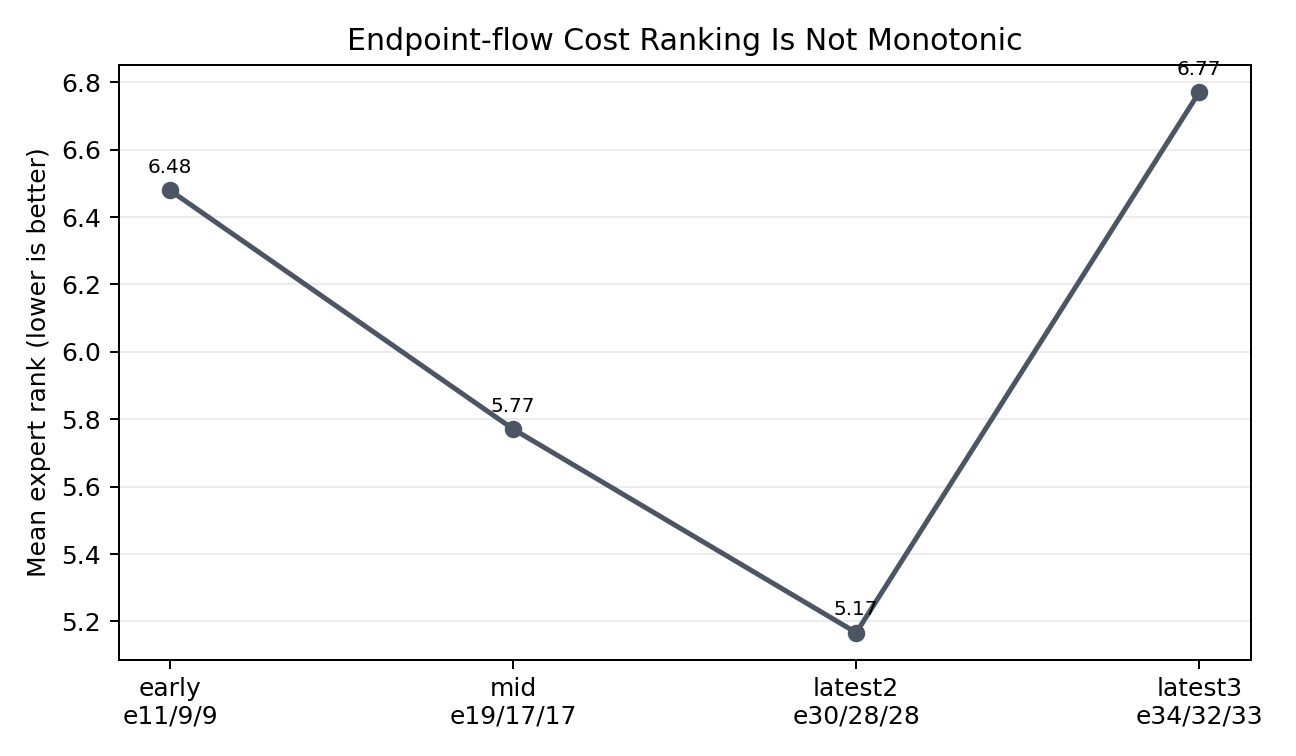
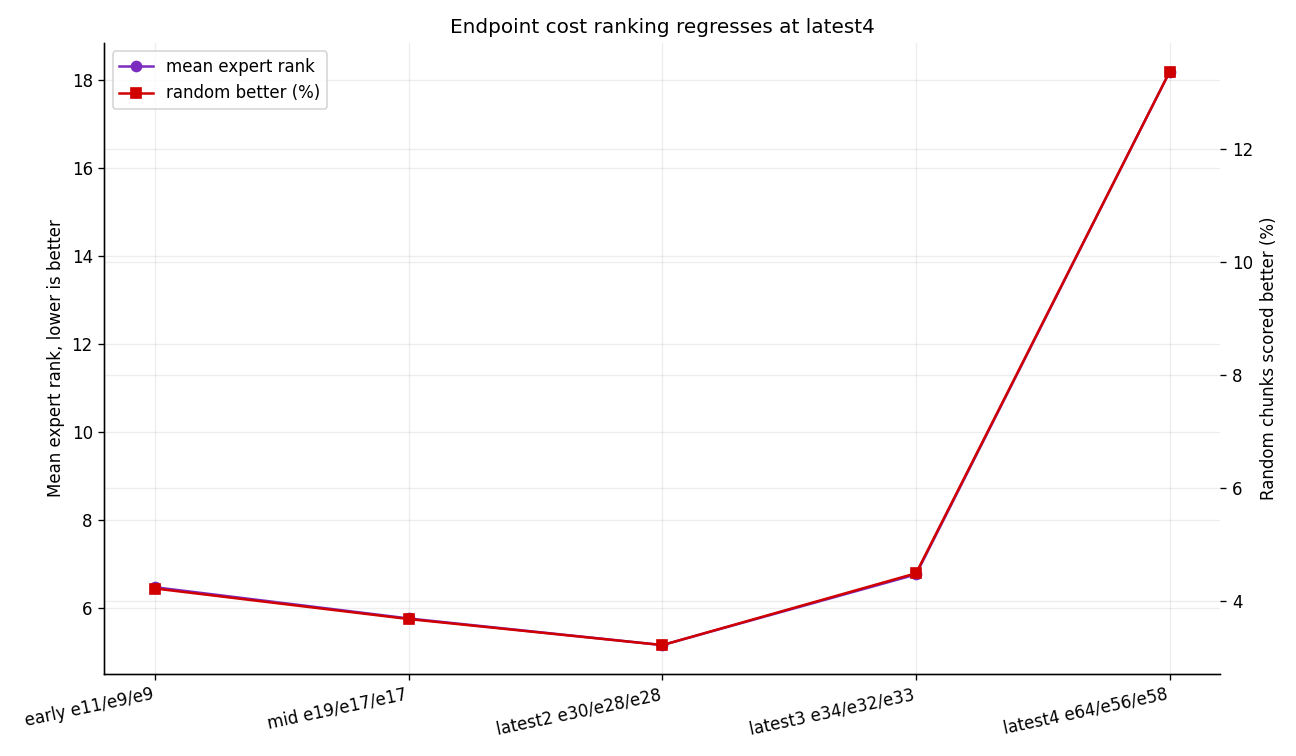
Update LeWM flow progress report metrics

diff --git a/docs/lewm_flow_progress_report_20260610.md b/docs/lewm_flow_progress_report_20260610.md
@@ -1,6 +1,6 @@
 # LeWM Flow-WM Progress Report
 
-Generated: 2026-06-11 EDT
+Generated: 2026-06-13 EDT
 
 Sources:
 
@@ -16,30 +16,29 @@ We are testing whether flow can improve LeWM by replacing the learned world-mode
 **Current answer: direct flow-WM replacement is not promising under the original LeWM/CEM interface.**
 
 - Native LeWM + CEM remains the anchor: `87.3 +/- 1.2%` full50 success at `1.31s/episode`.
-- Residual flow-WM is a clear failure mode: low flow loss (`0.0612`) but bad deterministic prediction (`1.2075`) and `0%` medium10 success.
-- Endpoint flow-WM repairs one-step prediction (`0.0083 -> 0.0055 -> 0.0053`) but not control (`30.0% -> 23.3% -> 20.0%`).
-- Runtime moves the same direction as performance moves against us: endpoint flow-WM is `~5.7x` slower than native selected CEM (`7.42s` vs `1.31s/episode`) while much less successful.
+- Residual flow-WM is now formally closed: epoch-100 full50 is only `2.0%` mean success, with `validate/pred_loss_epoch ~= 1.25` and `7.97s/episode`.
+- Endpoint flow-WM keeps improving one-step prediction (`0.0083 -> 0.0053 -> 0.0037`), but latest4 control collapses to `0%` medium10 while planner cost ranking gets worse (`mean expert rank 6.77 -> 18.19`).
+- Selected-native action-flow is fast (`0.37s/episode`) and fairer than the old epoch-100-confounded action-flow run, but still reaches only `54.7%` full50, far below native CEM.
 
 **Main insight:** the bottleneck is likely not model capacity or insufficient training time. The signal points to an interface mismatch: flow objectives can improve distributional or endpoint prediction, but CEM needs a deterministic, multi-step, action-conditional cost surface that ranks candidate action sequences correctly under closed-loop rollouts.
 
-**Research decision from current evidence:** do not keep scaling the same endpoint-flow WM as the main path. The next useful experiments should change the training signal or planner interface: planner-aware cost ranking/margin losses, multi-step rollout consistency on CEM-like action chunks, or uncertainty-aware CEM if we actually use flow samples during planning. A separate action-flow proposal is still worth testing because it can use flow where sampling is naturally useful while keeping the reliable native WM.
+**Research decision from current evidence:** do not keep scaling the same endpoint-flow WM as the main path. The next useful experiments should change the training signal or planner interface: planner-aware cost ranking/margin losses, multi-step rollout consistency on CEM-like action chunks, or uncertainty-aware CEM if we actually use flow samples during planning. Action-flow is worth keeping only as a fast proposal baseline, not as the current best controller.
 
 ## Key Results
 
-`Pred loss` is validation next-latent MSE. `Train h` is logged wall-time from the first validation epoch to the evaluated checkpoint, averaged over seeds; it is not a clean hardware benchmark because jobs resume under `embers`.
+`Pred loss` is validation next-latent MSE. Training wall-time is not used as a main claim for long flow runs because `embers` preemption/resume makes it a queue-dependent number.
 
 Fair comparison boundary: all claims below are PushT-only and use the same LeWM data/eval pipeline. Full50 is the main metric. Medium10 is a faster screening metric; it is still informative here because the flow-WM gap is large, consistent across seeds, and supported by validation/cost diagnostics.
 
-| Setting | Eval | Epochs s0/s1/s2 | Pred loss | Success (%) | Train h | Sec/episode | Signal |
-| --- | --- | --- | ---: | ---: | ---: | ---: | --- |
-| Native LeWM + CEM, selected | full50 | 48 / 83 / 75 | `0.0019` | `87.3 +/- 1.2` | `61.3` | `1.31` | Fair baseline anchor. |
-| Native LeWM + CEM, final | full50 | 100 / 100 / 100 | `0.1053` | `58.0 +/- 45.1` | `85.8` | `1.43` | Checkpoint selection matters. |
-| Native LeWM + action-flow, final | full50 | 100 / 100 / 100 | same WM | `44.0 +/- 33.3` | n/a | `0.44` | Fast but checkpoint-confounded. |
-| Native LeWM + CEM, early | medium10 | 35 / 28 / 33 | `0.0028` | `90.0 +/- 10.0` | `31.1` | `1.67` | Native learns useful planner cost early. |
-| Residual flow-WM + CEM | medium10 | 16 / 13 / 17 | `1.2075` | `0.0 +/- 0.0` | `16.6` | `9.98` | Flow loss does not expose a CEM-usable point prediction. |
-| Endpoint flow-WM + CEM, first | medium10 | 14 / 12 / 12 | `0.0083` | `30.0 +/- 17.3` | `16.7` | `5.47` | Endpoint target fixes only the first failure. |
-| Endpoint flow-WM + CEM, later | medium10 | 30 / 28 / 28 | `0.0055` | `23.3 +/- 5.8` | `40.7` | `5.67` | Better MSE does not become better control. |
-| Endpoint flow-WM + CEM, latest | medium10 | 34 / 32 / 33 | `0.0053` | `20.0 +/- 10.0` | `46.3` | `7.42` | Plateau; not an undertrained-model story. |
+| Setting | Eval | Epochs s0/s1/s2 | Pred loss | Success (%) | Sec/episode | Signal |
+| --- | --- | --- | ---: | ---: | ---: | --- |
+| Native LeWM + CEM, selected | full50 | 48 / 83 / 75 | `0.0019` | `87.3 +/- 1.2` | `1.31` | Fair baseline anchor. |
+| Native LeWM + CEM, final | full50 | 100 / 100 / 100 | `0.1053` | `58.0 +/- 45.1` | `1.43` | Final epoch is not a safe checkpoint rule. |
+| Selected native WM + action-flow | full50 | 48 / 83 / 75 | same WM | `54.7` | `0.37` | Fast proposal, but much weaker than CEM. |
+| Residual flow-WM + CEM, formal | full50 | 100 / 100 / 100 | `1.2507` | `2.0` | `7.97` | Formal run confirms failure. |
+| Endpoint flow-WM + CEM, first | medium10 | 14 / 12 / 12 | `0.0083` | `30.0 +/- 17.3` | `5.47` | Partial one-step repair. |
+| Endpoint flow-WM + CEM, latest3 | medium10 | 34 / 32 / 33 | `0.0053` | `20.0 +/- 10.0` | `7.42` | Lower MSE, no control gain. |
+| Endpoint flow-WM + CEM, latest4 | medium10 | 64 / 56 / 58 | `0.0037` | `0.0 +/- 0.0` | `8.96` | Best MSE, worst control. |
 
 -> The useful result is causal direction, not just ranking: native LeWM succeeds when validation prediction and planner cost ranking agree; flow-WM can improve its own losses without producing a robust CEM cost surface.
 
@@ -49,112 +48,50 @@ Algorithm: LeWM PushT Training and Evaluation Pipeline (`->` marks our modificat
 
 Input:
     PushT expert dataset: `pusht_expert_train.lance`.
-        -> Current report focuses on PushT only; OGBench/Cube is not used for the claims here.
-
-    Each trajectory provides:
-        - RGB pixels
-        - action
-        - proprio
-        - state
-
-    Training sample construction:
-        - history size: 3 frames
-        - prediction target: 1 next latent
-        - frameskip / action block: 5
-        - train split: 90%
+    Each sample uses RGB pixels, action, proprio, and state.
+    Training setup: history size 3, prediction target 1 next latent,
+    frameskip/action block 5, train split 90%.
+        -> This report is PushT-only; OGBench/Cube is not used for the claims.
 
 Model:
-    LeWM is a latent world model trained from expert demonstrations.
+    Original LeWM:
+        pixels -> ViT-tiny encoder -> projector -> latent z
+        action chunk -> action Embedder
+        ARPredictor(z history, action embedding) -> next latent z
+        objective: next-latent prediction loss + SIGReg
 
-    Shared modules kept fixed across WM variants:
-        - ViT-tiny image encoder: pixels -> latent features
-        - projector MLP: encoder features -> latent z
-        - action Embedder: action chunk -> action embedding
-        - prediction projector MLP
-        - SIGReg regularization
+    Our WM changes:
+        ARPredictor -> residual flow-WM
+            objective: flow-matching loss + SIGReg
+        ARPredictor -> endpoint flow-WM
+            objective: flow loss + endpoint/prediction loss + SIGReg
 
-    Native world model:
-        - ARPredictor: latent history z, action embedding -> next latent z
-        - objective: next-latent prediction loss + SIGReg
+    Our policy/proposal change:
+        CEM proposal sampler -> conditional action-flow proposal
+        WM kept fixed in this ablation.
 
-    Flow world-model variants:
-        - Residual flow-WM:
-            ARPredictor -> ConditionalFlowPredictor over latent residual dynamics
-            objective -> flow-matching loss + SIGReg
-        - Endpoint flow-WM:
-            ConditionalFlowPredictor + endpoint prediction target
-            objective -> flow loss + endpoint/pred loss + SIGReg
+Training:
+    Keep fixed across fair comparisons:
+        data, encoder/projector, action Embedder, optimizer,
+        dataloader, checkpointing, W&B logging, and eval code.
 
-    Policy / planner:
-        - default action selector: CEM planner using the learned world model
-        - CEM config: 300 samples, 30 optimization steps, top-30 elites
-        - planning horizon: 5, receding horizon: 5
-        - optional action-flow proposal:
-            CEM proposal sampler -> learned conditional action-flow proposal
-            native WM is unchanged in this ablation
+    Change only:
+        native dynamics head vs flow dynamics head,
+        or CEM proposal vs action-flow proposal.
 
-Training Pipeline:
-    Step 1: Load expert demonstrations
-        Load PushT expert trajectories from `pusht_expert_train.lance`.
-        Normalize/cache action, proprio, and state statistics.
+Evaluation:
+    Main eval is closed-loop PushT real-env evaluation.
+    At each step:
+        observe -> encode latent -> plan with learned WM -> execute first action block -> replan.
 
-    Step 2: Train native LeWM baseline
-        Update:
-            - ViT encoder
-            - projector / prediction projector
-            - action Embedder
-            - ARPredictor
+    CEM settings:
+        300 samples, 30 optimization steps, top-30 elites,
+        horizon 5, receding horizon 5.
 
-        Optimize:
-            next-latent prediction loss + SIGReg
-
-    Step 3: Train flow-WM ablations
-        Keep the same data, encoder, projector, action Embedder, optimizer,
-        dataloader, checkpointing, W&B logging, and eval pipeline.
-
-        Change only:
-            native ARPredictor -> flow-based predictor
-
-        Residual flow-WM:
-            optimize flow-matching loss.
-
-        Endpoint flow-WM:
-            optimize flow-matching loss plus endpoint/prediction loss.
-
-    Step 4: Checkpoint selection
-        Record validation metrics:
-            - pred loss
-            - flow loss, for flow-WM
-            - endpoint loss, for endpoint flow-WM
-            - SIGReg loss
-
-        Important:
-            final epoch is not safe; native seed 0 drops from `88%` to `6%`.
-
-Evaluation Pipeline:
-    Main eval: closed-loop PushT real-environment evaluation.
-
-    For each checkpoint:
-        1. Reset PushT eval environment.
-        2. Set eval state and goal from dataset-defined starts.
-        3. At each planning step:
-            - observe pixels / state
-            - encode pixels into latent z
-            - run CEM with the learned world model
-            - score candidate action chunks by predicted latent goal cost
-            - execute the selected action block
-            - replan with new environment feedback
-        4. Record success rate, per-episode successes, evaluation time, videos, and W&B metrics.
-
-    Eval protocols:
-        - full50: 50 real-environment episodes; main downstream metric
-        - medium10: 10 real-environment episodes; checkpoint-screening metric
-
-    Diagnostics:
-        - Cost ranking:
-            expert action chunks should score below random chunks under the LeWM planner cost.
-        - Action-flow eval:
-            CEM proposal sampler -> learned flow proposal, native WM unchanged.
+    Protocols:
+        full50 = 50 episodes, main metric.
+        medium10 = 10 episodes, checkpoint-screening metric.
+        cost-rank diagnostic = expert action chunks should score below random chunks.
 
 ## Ablations & Insights
 
@@ -163,8 +100,9 @@ Evaluation Pipeline:
 | WM | Objective | Eval | Pred loss | Success (%) | Sec/episode | Interpretation |
 | --- | --- | --- | ---: | ---: | ---: | --- |
 | Native ARPredictor | pred + SIGReg | full50 | `0.0019` | `87.3` | `1.31` | Strong and cheap. |
-| Residual flow-WM | flow + SIGReg | medium10 | `1.2075` | `0.0` | `9.98` | Flow loss not usable by CEM. |
+| Residual flow-WM | flow + SIGReg | full50 | `1.2507` | `2.0` | `7.97` | Formal run confirms failure. |
 | Endpoint flow-WM | flow + endpoint + SIGReg | medium10 | `0.0053` | `20.0` | `7.42` | One-step repair, closed-loop plateau. |
+| Endpoint flow-WM latest4 | flow + endpoint + SIGReg | medium10 | `0.0037` | `0.0` | `8.96` | Lower MSE, worse planner ranking and control. |
 
 -> This isolates the failure to the WM/planner interface. Residual flow fails before control because CEM needs a point rollout. Endpoint flow makes that point rollout numerically reasonable, but the planner still does not get a reliable action-sequence cost landscape.
 
@@ -172,13 +110,14 @@ Evaluation Pipeline:
 
 ### 2. Endpoint-Flow Training Ablation
 
-| Endpoint eval set | Epochs s0/s1/s2 | Pred loss | Flow loss | Success (%) |
-| --- | --- | ---: | ---: | ---: |
-| First medium10 | 14 / 12 / 12 | `0.0083` | `0.0614` | `30.0` |
-| Later medium10 | 30 / 28 / 28 | `0.0055` | `0.0526` | `23.3` |
-| Latest medium10 | 34 / 32 / 33 | `0.0053` | `0.0513` | `20.0` |
+| Endpoint eval set | Epochs s0/s1/s2 | Pred loss | Flow loss | Success (%) | Cost-rank read |
+| --- | --- | ---: | ---: | ---: | --- |
+| First medium10 | 14 / 12 / 12 | `0.0083` | `0.0614` | `30.0` | early rank `6.48` |
+| Latest2 medium10 | 30 / 28 / 28 | `0.0055` | `0.0526` | `23.3` | rank `5.17` |
+| Latest3 medium10 | 34 / 32 / 33 | `0.0053` | `0.0513` | `20.0` | rank `6.77` |
+| Latest4 medium10 | 64 / 56 / 58 | `0.0037` | `0.0449` | `0.0` | rank `18.19` |
 
--> This is the strongest "do not just train longer" signal. The model becomes better at the supervised endpoint target while closed-loop behavior gets no better, so the missing target is not more endpoint MSE; it is planner-relevant multi-step cost calibration.
+-> This is the strongest "do not just train longer" signal. The model becomes better at the supervised endpoint target while planner cost ranking gets worse, so the missing target is not more endpoint MSE; it is planner-relevant multi-step cost calibration.
 
 ![Endpoint-flow trend](assets/lewm_flow_progress_20260611/lewm_endpoint_trend.png)
 
@@ -187,8 +126,9 @@ Evaluation Pipeline:
 | Comparison | Metric signal | Control signal | Research implication |
 | --- | --- | --- | --- |
 | Native selected vs final seed 0 | pred loss `0.00239 -> 0.31281` | full50 `88% -> 6%` | validation pred loss is meaningful for native checkpoint selection. |
-| Residual flow-WM | flow loss `0.0612`, pred loss `1.2075` | medium10 `0%` | flow loss alone is misleading. |
-| Endpoint flow-WM | pred loss `0.0083 -> 0.0053` | medium10 `30% -> 20%` | one-step endpoint MSE is not enough. |
+| Residual flow-WM formal | flow loss `0.0394`, pred loss `1.2507` | full50 `2%` | flow loss alone is misleading. |
+| Endpoint flow-WM | pred loss `0.0083 -> 0.0037` | medium10 `30% -> 0%` | one-step endpoint MSE is not enough. |
+| Endpoint latest3 -> latest4 | cost rank `6.77 -> 18.19` | medium10 `20% -> 0%` | planner ranking regresses while MSE improves. |
 
 -> Prediction loss is useful only when it matches the planner interface. For native LeWM it does; for flow-WM it becomes a weak proxy. The next metric should measure whether the WM ranks CEM candidate rollouts the same way the real environment would, not only whether the next latent is close.
 
@@ -207,8 +147,9 @@ Lower expert rank is better. Rank `1` means expert action chunks are scored best
 | Endpoint mid mean, e19/e17/e17 | `5.77` | `0.0368` | medium10 `20.0%` |
 | Endpoint latest2 mean | `5.17` | `0.0322` | medium10 `23.3%` |
 | Endpoint latest3 mean | `6.77` | `0.0449` | medium10 `20.0%` |
+| Endpoint latest4 mean | `18.19` | `0.1336` | medium10 `0.0%` |
 
--> Cost ranking separates native/residual cleanly, but it does not fully explain endpoint-flow. Endpoint checkpoints can rank expert chunks above random chunks while still failing in real env. That means the diagnostic is too easy: expert-vs-random single-step ranking is necessary, but CEM fails on harder near-miss candidates and compounding multi-step errors.
+-> Cost ranking separates native/residual cleanly and now gives a strong negative endpoint signal: latest4 has the best endpoint MSE but the worst endpoint cost rank. Expert-vs-random ranking is still an imperfect diagnostic, but this regression is enough to stop treating endpoint MSE as a useful standalone objective.
 
 ![Endpoint cost-rank trend](assets/lewm_flow_progress_20260611/lewm_endpoint_cost_rank_trend.png)
 
@@ -217,9 +158,11 @@ Lower expert rank is better. Rank `1` means expert action chunks are scored best
 | Setting | Train h | Sec/episode | Success (%) | Compute read |
 | --- | ---: | ---: | ---: | --- |
 | Native selected CEM | `61.3` | `1.31` | `87.3` | best Pareto point |
-| Native action-flow final | n/a | `0.44` | `44.0` | fast, but checkpoint-confounded |
-| Residual flow-WM | `16.6` | `9.98` | `0.0` | dominated |
-| Endpoint flow-WM latest | `46.3` | `7.42` | `20.0` | dominated |
+| Selected native action-flow | n/a | `0.37` | `54.7` | fast, but much weaker than CEM |
+| Native action-flow epoch100 | n/a | `0.44` | `44.0` | fast, but checkpoint-confounded |
+| Residual flow-WM formal | n/a | `7.97` | `2.0` | dominated |
+| Endpoint flow-WM latest3 | `46.3` | `7.42` | `20.0` | dominated |
+| Endpoint flow-WM latest4 | n/a | `8.96` | `0.0` | worse with more training |
 
 -> Runtime is a research constraint, not just engineering overhead. Since CEM calls the WM many times per control step, a flow-WM must either deliver a large success gain or expose useful uncertainty to the planner. The current version does neither, so it is Pareto-dominated.
 
@@ -231,13 +174,16 @@ Where the project is currently stuck:
    This is why residual flow can lower flow loss while giving CEM a bad rollout.
 
 2. **Endpoint loss solves the visible prediction bug but not the decision problem.**
-   Endpoint-flow reaches low next-latent MSE, yet success plateaus. The missing supervision is probably on action-sequence ranking and multi-step compounding error, not single-step endpoint accuracy.
+   Endpoint-flow reaches lower next-latent MSE, yet success plateaus and latest4 cost ranking regresses. The missing supervision is probably on action-sequence ranking and multi-step compounding error, not single-step endpoint accuracy.
 
 3. **The diagnostic is not hard enough yet.**
-   Expert-vs-random cost ranking catches residual-flow failure, but endpoint-flow can pass this test and still fail in real env. We need CEM-candidate ranking, near-miss negatives, or rollout-level calibration.
+   Expert-vs-random cost ranking catches residual-flow failure, and latest4 now also catches endpoint degradation. Earlier endpoint checkpoints could still look acceptable on this simple test while failing in real env, so we need CEM-candidate ranking, near-miss negatives, or rollout-level calibration.
 
 4. **Flow-WM currently loses on compute.**
    It is slower and less successful, so the only reason to keep it is if we change the planner/objective enough for flow's distributional structure to matter.
+
+5. **Action-flow is useful as a fast proposal baseline, but not as the main controller.**
+   On selected native WMs it improves over the unfair epoch-100 action-flow comparison, but `54.7%` full50 is still far below native CEM.
 
 Next experiments that are actually informative:
 
@@ -246,8 +192,8 @@ Next experiments that are actually informative:
 | Planner-aware WM loss | Endpoint MSE improved without control gain. | Expert/CEM-good chunks receive lower predicted cost than near-miss CEM candidates. |
 | Multi-step latent rollout loss | CEM evaluates action sequences, not isolated next latents. | Cost rank and real-env success improve together over 5-step chunks. |
 | Uncertainty-aware flow planning | Flow is only useful if sampled uncertainty changes CEM's decision. | Multi-sample or risk-sensitive CEM improves success enough to justify runtime. |
-| Action-flow proposal on selected native WM | Flow may be better as an action sampler than as the dynamics model. | Faster eval than native CEM without using collapsed epoch-100 WMs. |
-| Stop unchanged endpoint-flow scaling | Latest training already shows lower pred loss with no success gain. | Only continue if a new objective/planner change is added. |
+| Action-flow as a proposal baseline | Selected-native action-flow is fast but only `54.7%`. | Improve proposal quality without sacrificing too much native CEM success. |
+| Stop unchanged endpoint-flow scaling | Latest4 has lower MSE but worse cost rank. | Only continue if a new objective/planner change is added. |
 
 Advisor-level decision point: should we make flow compatible with the original deterministic CEM planner, or change the planner to consume flow uncertainty? Current evidence favors the first as the next controlled experiment, because it preserves the original LeWM pipeline and tests the smallest hypothesis change.
 
@@ -259,7 +205,10 @@ Output roots:
 - Residual flow-WM: `/storage/project/r-agarg35-0/eliu354/external_data/lewm_stablewm/experiments/pusht_flow_wm_formal_20260608`
 - Endpoint flow-WM: `/storage/project/r-agarg35-0/eliu354/external_data/lewm_stablewm/experiments/pusht_flow_endpoint_formal_20260609`
 - Cost diagnostics: `/storage/project/r-agarg35-0/eliu354/external_data/lewm_stablewm/experiments/pusht_cost_diagnostics_20260609`
+- Selected native action-flow: `/storage/project/r-agarg35-0/eliu354/external_data/lewm_stablewm/experiments/pusht_native_selected_action_flow_20260611`
 
 Caveat:
 
-- Latest3 cost-rank jobs wrote local metrics under the default diagnostic variant path (`wm_flow_endpoint_policy_original/seed_x/eval`) because the diagnostic sbatch does not yet pass `experiment.variant`; W&B summaries and Slurm logs match the values reported above.
+- Latest3 cost-rank jobs wrote local metrics under the default diagnostic variant path (`wm_flow_endpoint_policy_original/seed_x/eval`) because the diagnostic sbatch did not pass `experiment.variant`; W&B summaries and Slurm logs match the values reported above.
+- This was fixed before latest4 cost-rank diagnostics, which now write to explicit latest4 variant paths.
+- Latest4 endpoint medium10 evals were resubmitted with the correct `EVAL_BUDGET=50`; all three seeds completed at `0.0%` success.
